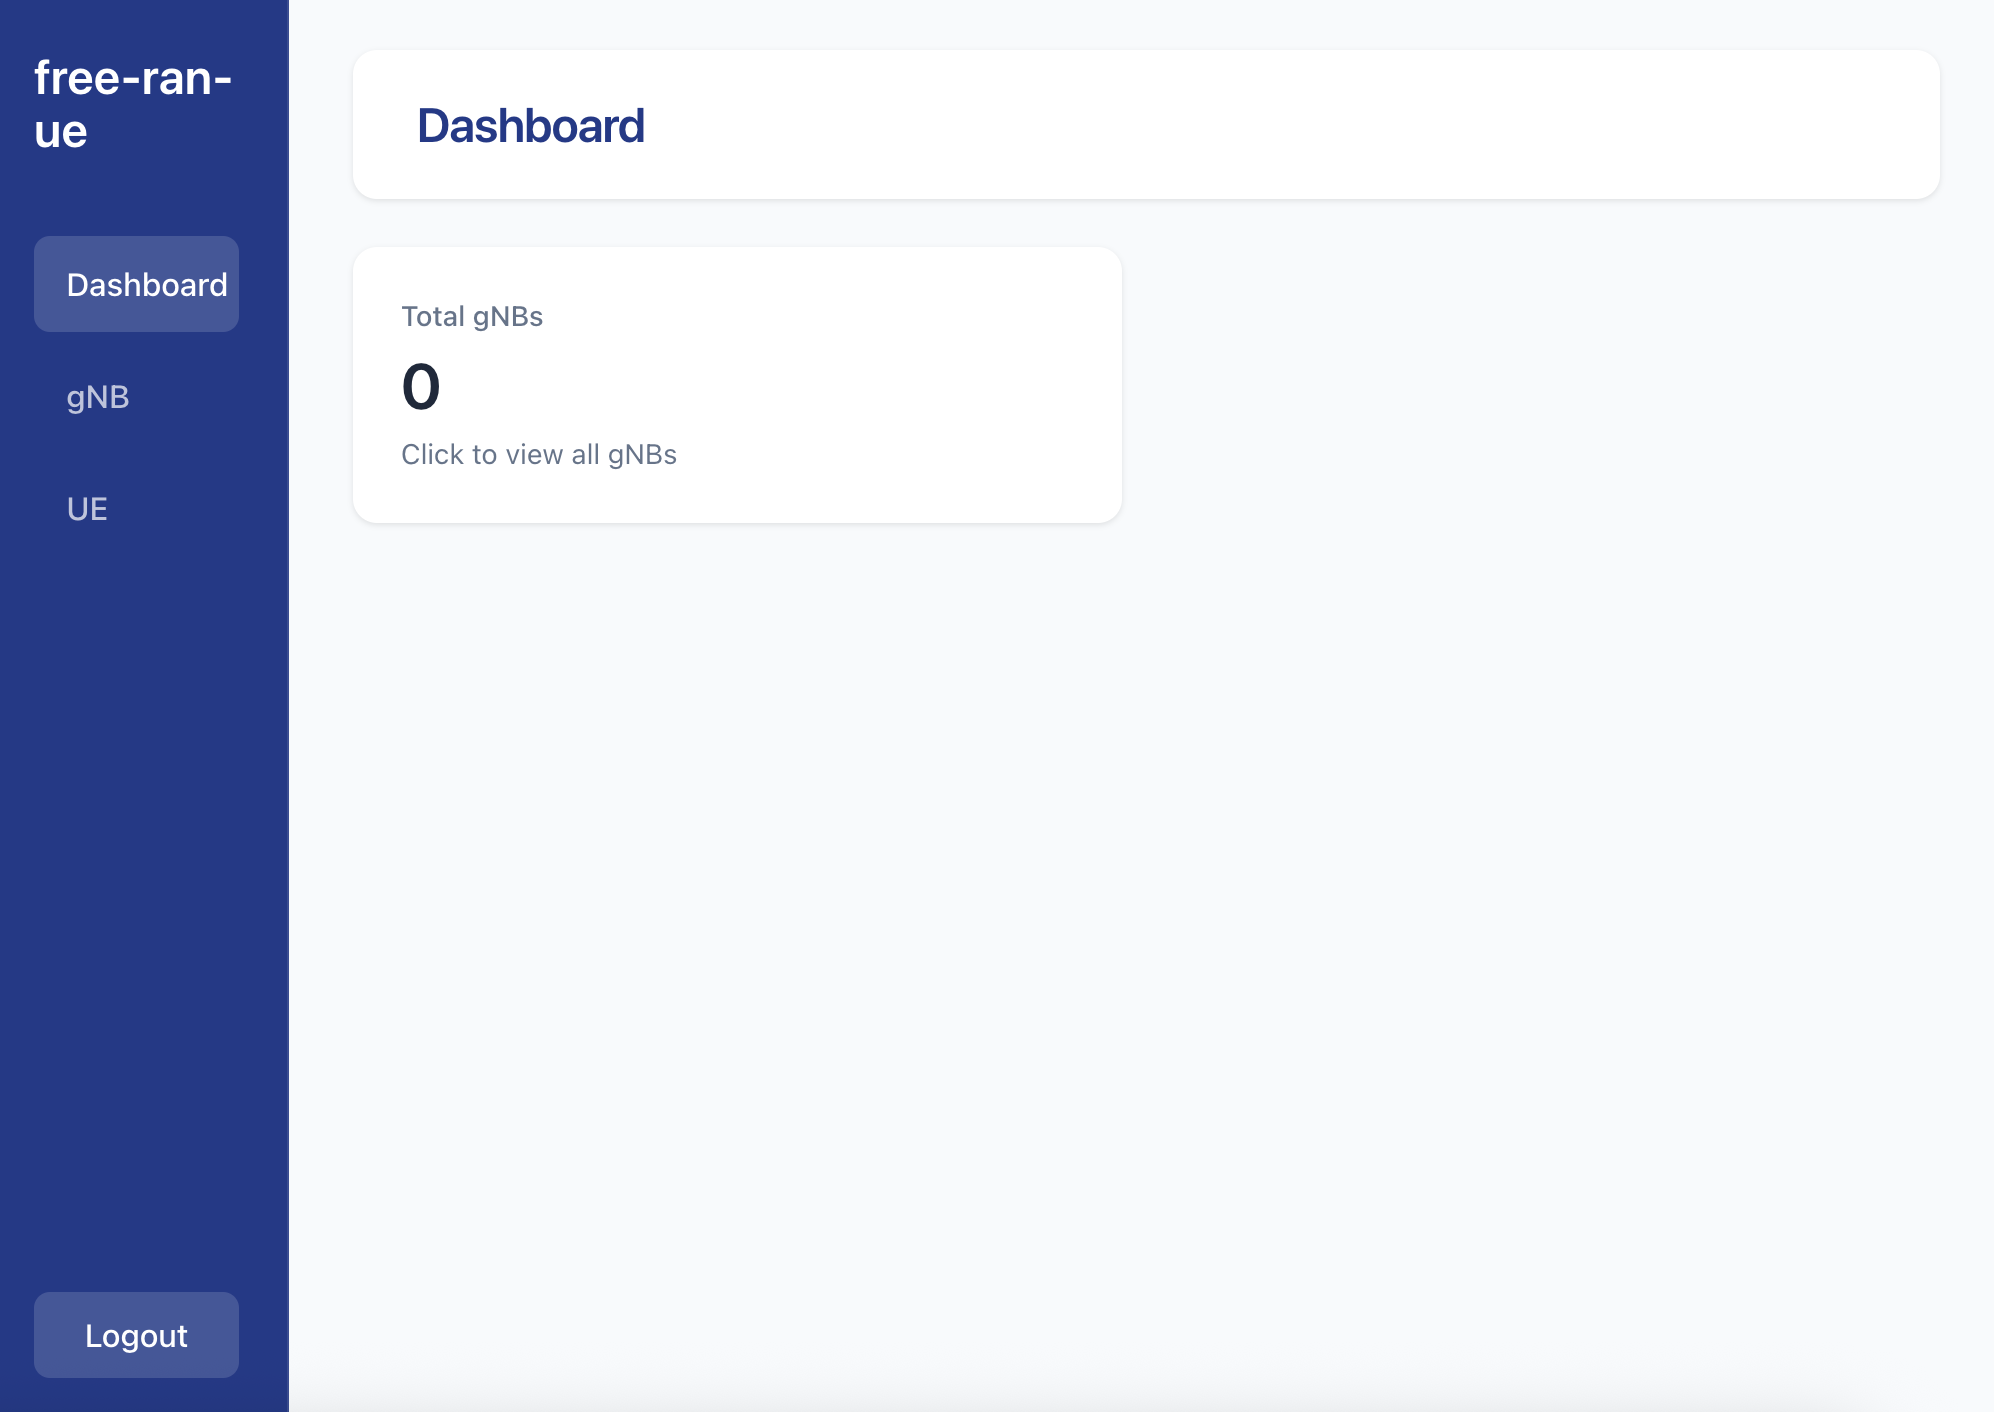
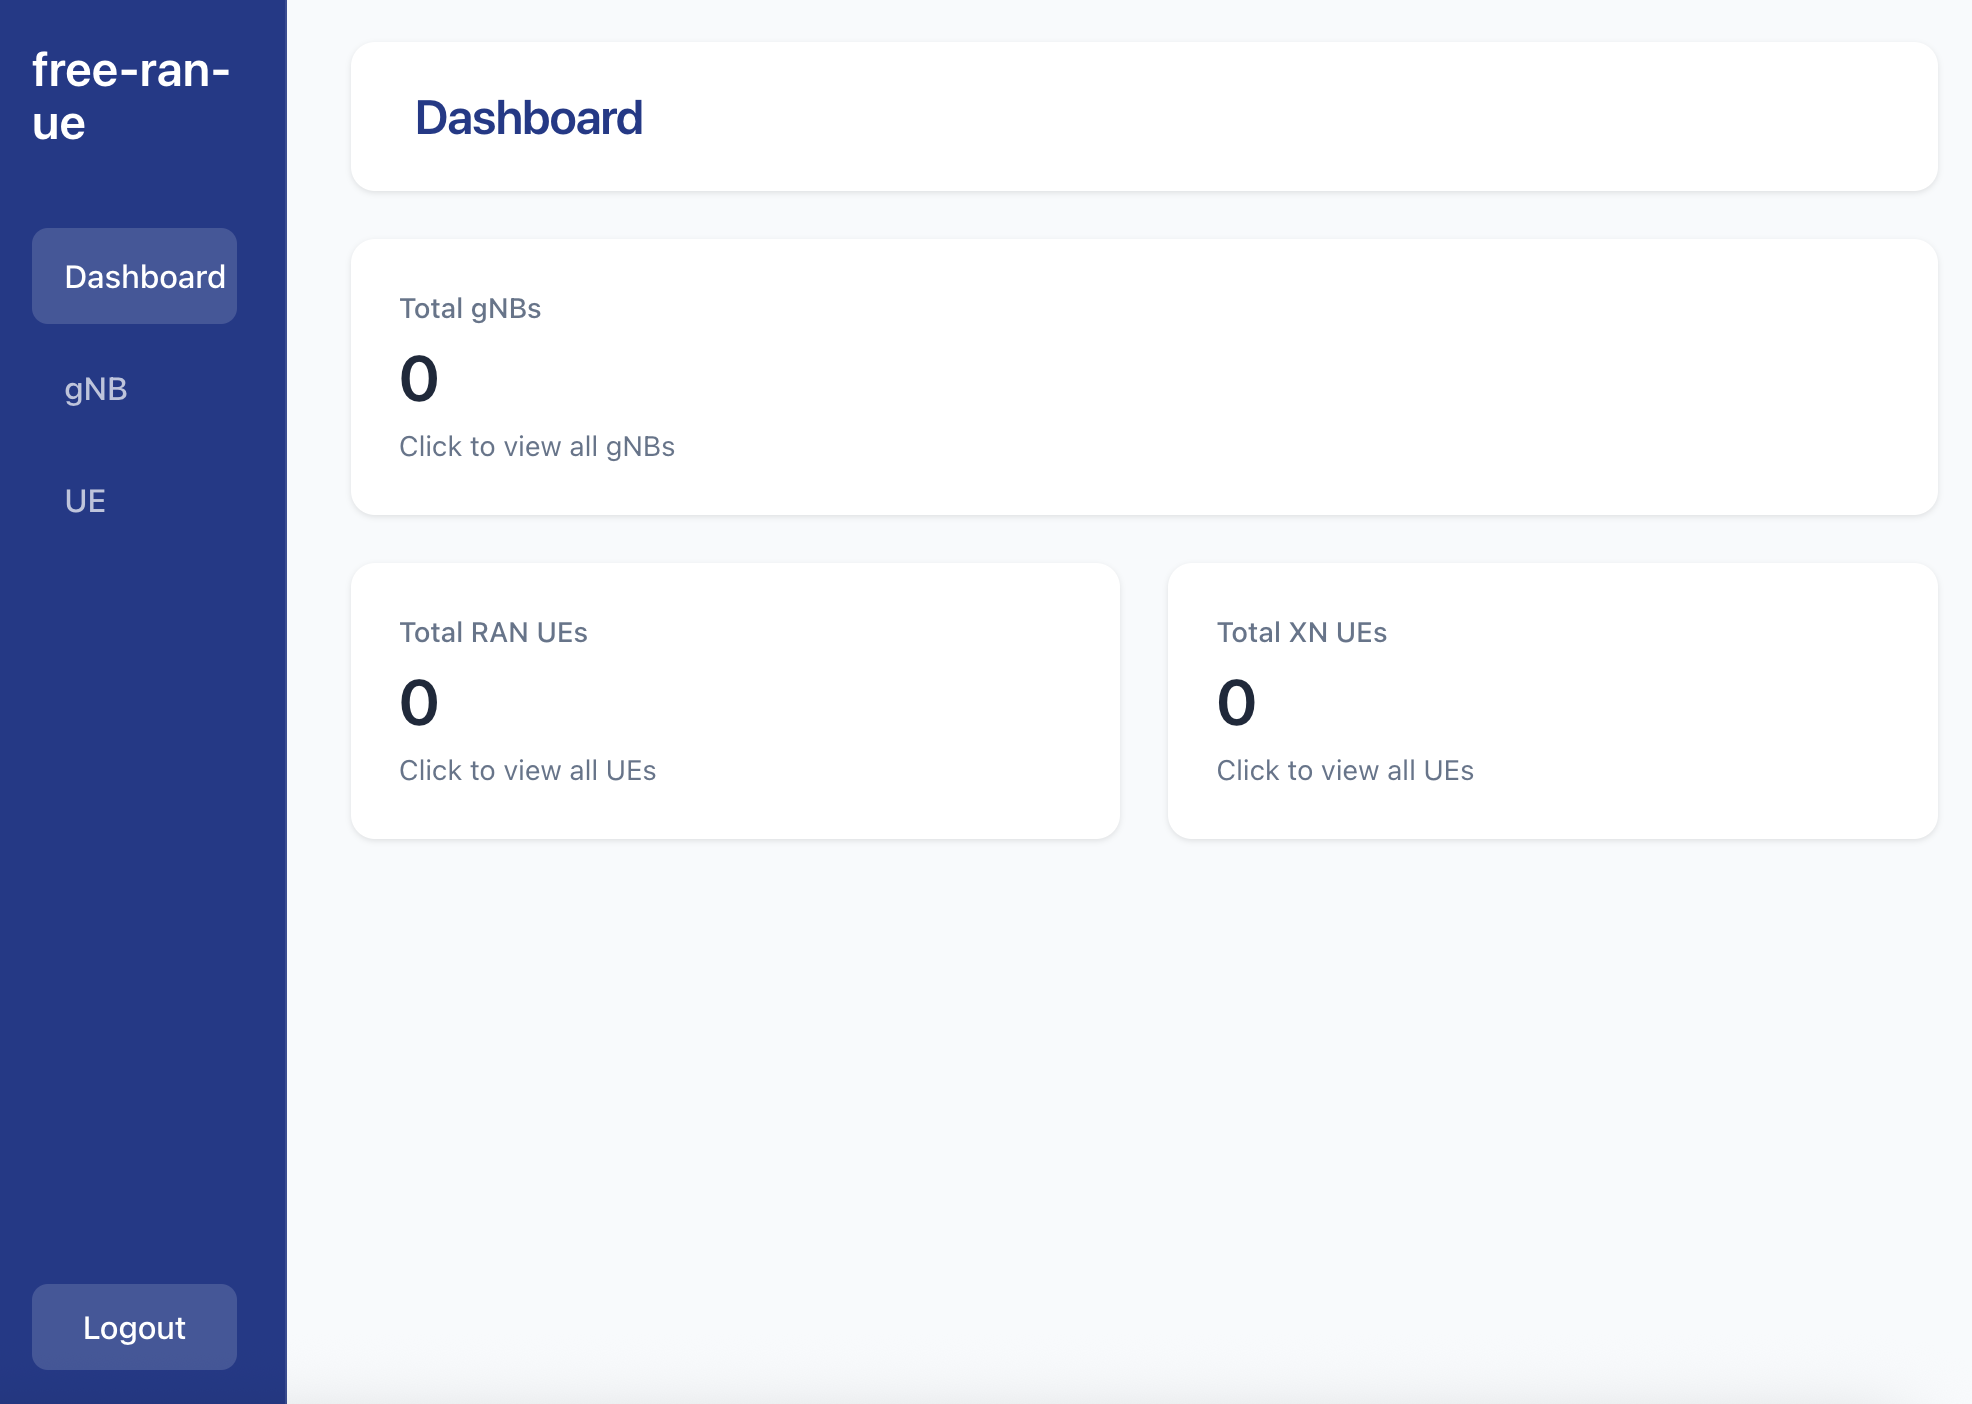
docs: add UE page description

diff --git a/doc/doc-user-guide/07-console.md b/doc/doc-user-guide/07-console.md
@@ -133,6 +133,14 @@ Add success:
 
 ![free-ran-ue-gNB-add-success](../image/free-ran-ue-gNB-add-success.png)
 
-## F. Add UE
+## F. UE
 
-Coming soon...
+At UE page, you can see the UE which is connected to gNB or be XnUE at secondary gNB.
+
+- RAN UE List means there is basic UE connection via gNB:
+
+    ![free-ran-ue-ran-ue](../image/free-ran-ue-ran-ue.png)
+
+- Xn UE List means there is DC UE connection at gNB:
+
+    ![free-ran-ue-xn-ue](../image/free-ran-ue-xn-ue.png)
